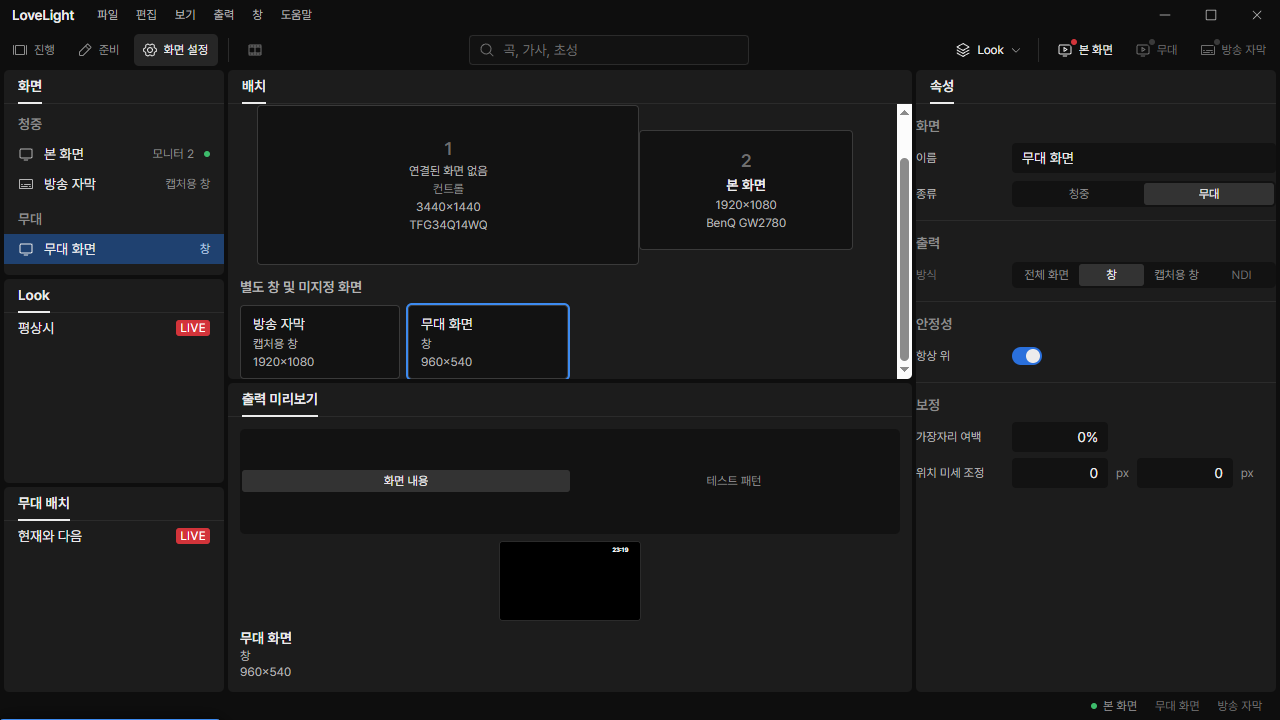
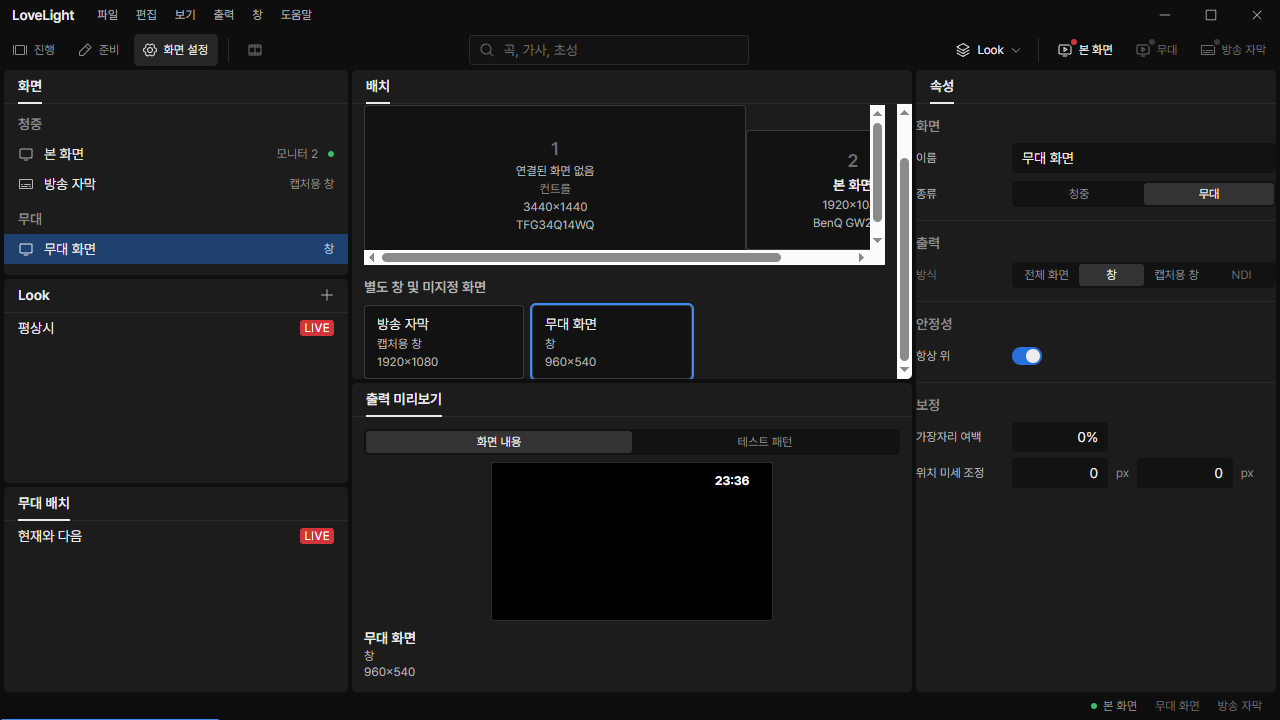
fix(screens): keep one layout selection and record offscreen checks

diff --git a/src/renderer/src/screens/DisplayLayout.tsx b/src/renderer/src/screens/DisplayLayout.tsx
@@ -162,6 +162,11 @@ export function DisplayLayout({
     () => displayLayout(monitors, screens, selectedId),
     [monitors, screens, selectedId],
   );
+  const pickedNumber =
+    pickedMonitor?.selection === selection &&
+    pickedMonitor.monitors === monitors
+      ? pickedMonitor.number
+      : null;
   return (
     <section className={styles.layout} aria-label={TITLE}>
       <div className={styles.header}>
@@ -186,10 +191,9 @@ export function DisplayLayout({
                 box={{
                   ...box,
                   selected:
-                    pickedMonitor?.selection === selection &&
-                    pickedMonitor.monitors === monitors
-                      ? pickedMonitor.number === box.number
-                      : box.selected,
+                    pickedNumber === null
+                      ? box.selected
+                      : pickedNumber === box.number,
                 }}
                 onSelect={() => {
                   const screenId = box.screenIds.includes(selectedId ?? '')
@@ -247,7 +251,13 @@ export function DisplayLayout({
         {model.targets.length > 0 ? (
           <div className={styles.targets}>
             {model.targets.map(target => (
-              <TargetView key={target.id} target={target} />
+              <TargetView
+                key={target.id}
+                target={{
+                  ...target,
+                  selected: pickedNumber === null && target.selected,
+                }}
+              />
             ))}
           </div>
         ) : (

diff --git a/src/renderer/src/screens/DisplayLayout.test.tsx b/src/renderer/src/screens/DisplayLayout.test.tsx
@@ -332,6 +332,16 @@ describe('the display layout', () => {
       );
       expect(box(1).getAttribute('aria-pressed')).toBe('true');
       expect(box(2).getAttribute('aria-pressed')).toBe('false');
+      await userEvent.click(screen.getByRole('button', {name: '무대 화면'}));
+      await userEvent.click(
+        screen.getByRole('button', {name: '모니터 1 Wide monitor'}),
+      );
+      expect(
+        screen
+          .getByRole('button', {name: '무대 화면'})
+          .getAttribute('aria-pressed'),
+      ).toBe('false');
+      expect(box(1).getAttribute('aria-pressed')).toBe('true');
       expect(edit).not.toHaveBeenCalled();
       expect(send).not.toHaveBeenCalled();
     },

diff --git a/docs/reviews/screens-10.md b/docs/reviews/screens-10.md
@@ -2,7 +2,8 @@
 
 - Team member: `screens`
 - Branch: `fix/screens/display-layout-sizing`
-- Base and exact head: see request line.
+- Base commit (`main`): `a25e2af2`, rebased before final checks.
+- Exact head and CI: see request line.
 - Bug: M3-C3-8, the user's live check of 화면 설정 > 배치.
 - Feature-freeze scope: bug fix only. New O2 units are parked.
 
@@ -57,19 +58,53 @@ use main's published `screenIds`; the window does not resolve monitor ownership.
 
 ## Checks run
 
-The request line records post-rebase typecheck, scoped tests, ESLint,
-formatting, build and exact-head CI. The geometry fixture checks both aspect
-ratios and the 222 px offset. Component tests cover both editable and read-only
-selection, changed published ownership, empty states and existing drag guards.
+After rebasing onto `a25e2af2`, all 184 tests in the 18 screens and shell
+workspace files passed. The final single-selection refinement passed all 17
+DisplayLayout tests again. Typecheck, scoped ESLint and the production build
+pass. The geometry fixture checks both aspect ratios and the 222 px offset.
+Component tests cover both editable and read-only selection, changed published
+ownership, empty states and existing drag guards. Formatting and exact-head CI
+are recorded in the request line.
 
 ## Checked in the app
 
-Pending the final post-rebase offscreen runs. The before screenshot already
-reproduces the user's exact monitor arrangement and the overlapping 2 x 2 boxes.
-Final measurements, repeat counts and screenshots are recorded before requesting
-review.
+Built the final rebased code and launched it twice with
+`LLP_TEST_WINDOWS=offscreen`, `LLP_DEV_PORT=5192` and CDP port 9512. The driver
+and flow scripts passed `node --check` before each launch. An isolated fixture
+profile under `D:\llp-dev\screens` held only invented screen configuration.
+Every window, including the output used to check published monitor ownership,
+stayed offscreen. Both final launches exited cleanly with code 0 and no runtime
+exceptions.
+
+The real monitor feed matched the exact user setup: 3440 x 1440 at (0, 0), and
+1920 x 1080 at (3440, 222), both at scale factor 1. CDP drove actual pointer and
+keyboard events and measured the resulting browser layout.
+
+| Check                        | Result                                                                                                                                                                                                                                                                      |
+| ---------------------------- | --------------------------------------------------------------------------------------------------------------------------------------------------------------------------------------------------------------------------------------------------------------------------- |
+| Before, 3440 x 1440 viewport | Layout panel height 0 px; both monitor boxes overlap at 2 x 2 px.                                                                                                                                                                                                           |
+| After, same viewport         | Layout and preview panels each have 661 px height. Monitor boxes are 1077.38 x 450.98 px and 601.33 x 338.23 px. Both aspect ratios, adjacency and the scaled 222 px offset pass assertions.                                                                                |
+| Select boxes and cards       | The assigned monitor selects 본 화면, and the caption/stage cards select their screen in the list and properties. An empty monitor has one local highlight and clears card highlighting without assigning a screen.                                                         |
+| Narrow layout                | At 1280 x 720, the column gap can be dragged to leave 506 px for the arrangement. Its 596 px scroll width remains reachable. Boxes retain about 382 x 160 px and 213 x 120 px. The 16:9 output preview fits at 279 x 157 px and the mode switch stays at its normal height. |
+| Empty and unassigned         | A stage screen changed to fullscreen without a display remains selectable as 모니터 미지정. Removing fixture screens shows 등록된 화면 없음. The configuration is restored before closing.                                                                                  |
+
+Each final launch switched between the caption card and assigned monitor 20
+round trips after four warmup trips, then left and reopened 화면 설정 twice.
+Samples at 0/5/10/15/20 trips kept 337 elements, 797 DOM nodes and 353 listeners
+in both launches. The two workspace reopens kept 337 elements and 353 listeners;
+DOM nodes settled at 830 after the first visit to 진행 and stayed at 830 on the
+second. The intermediate 진행 workspace was not loaded in the initial samples.
+
+Forced-GC JS heap during 20 trips was 5.61 to 5.83 MB in launch 1 and 5.62 to
+5.84 MB in launch 2, a spread below 4%. Final heaps after both workspace reopens
+were 5,994,520 and 5,996,172 bytes, within 2 KB of each other. DOM and listener
+counts did not grow with repeated selection or reopening.
 
 ![Before at 3440 x 1440](screens-10/before-3440.png)
+![Fixed at 3440 x 1440](screens-10/fixed-3440.png)
+![Minimum boxes and scrolling at 1280 x 720](screens-10/fixed-1280.png)
+![Unassigned fullscreen stage remains selectable](screens-10/unassigned-stage.png)
+![Empty registered-screen state](screens-10/empty-screens.png)
 
 ## Review: lead
 
